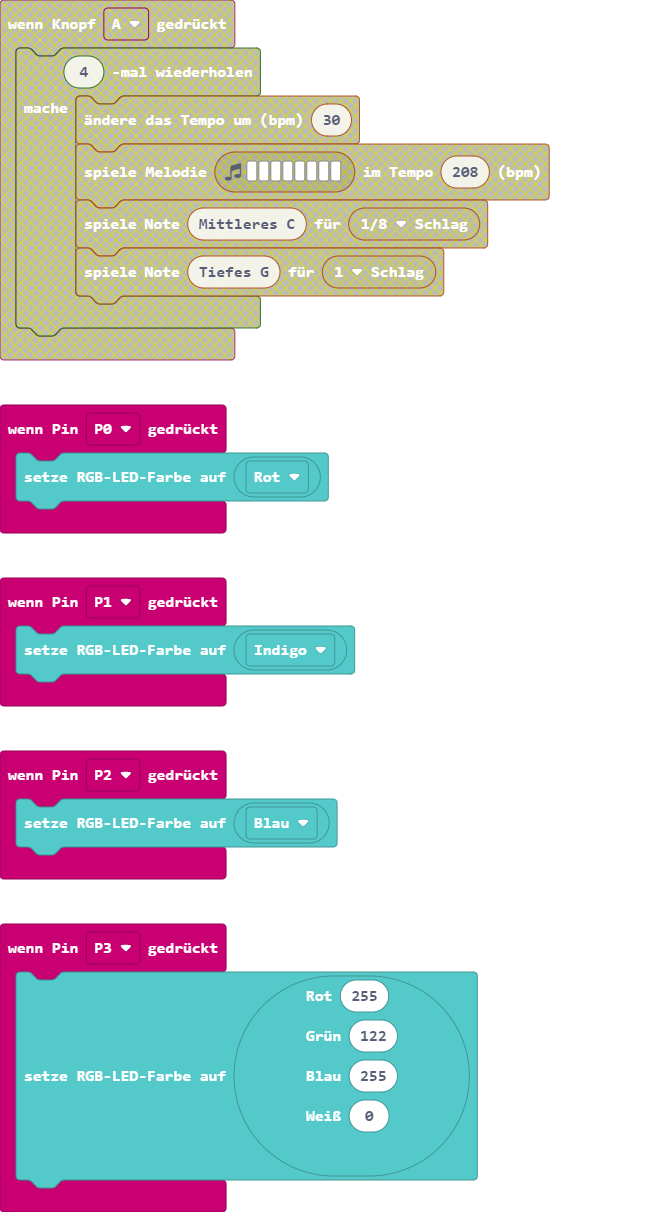
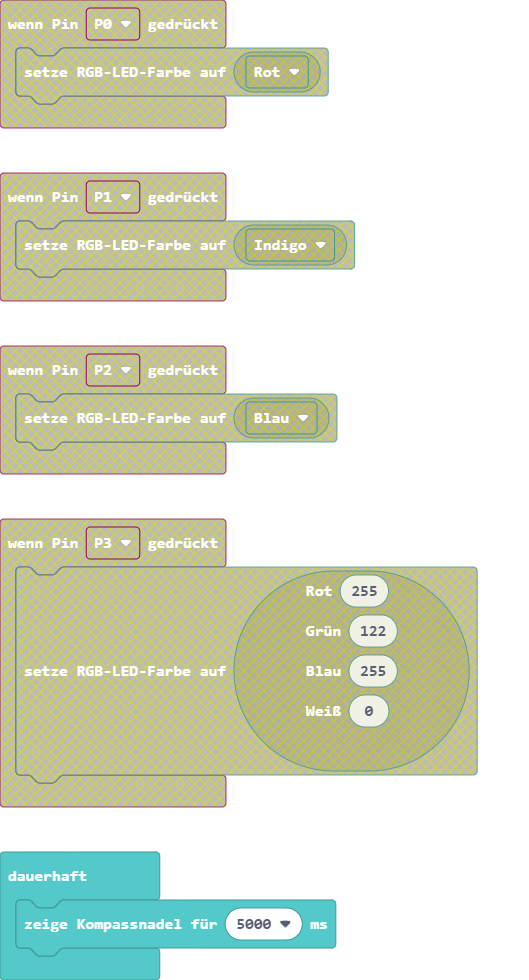
Kompasnadel

diff --git a/main.ts b/main.ts
@@ -1,17 +1,3 @@
-input.onPinPressed(TouchPin.P0, function () {
-    basic.setLedColor(Colors.Red)
-})
-input.onPinPressed(TouchPin.P3, function () {
-    basic.setLedColor(basic.rgbw(
-    255,
-    122,
-    255,
-    0
-    ))
-})
-input.onPinPressed(TouchPin.P2, function () {
-    basic.setLedColor(Colors.Blue)
-})
-input.onPinPressed(TouchPin.P1, function () {
-    basic.setLedColor(Colors.Indigo)
+basic.forever(function () {
+    basic.showCompass(5000)
 })
